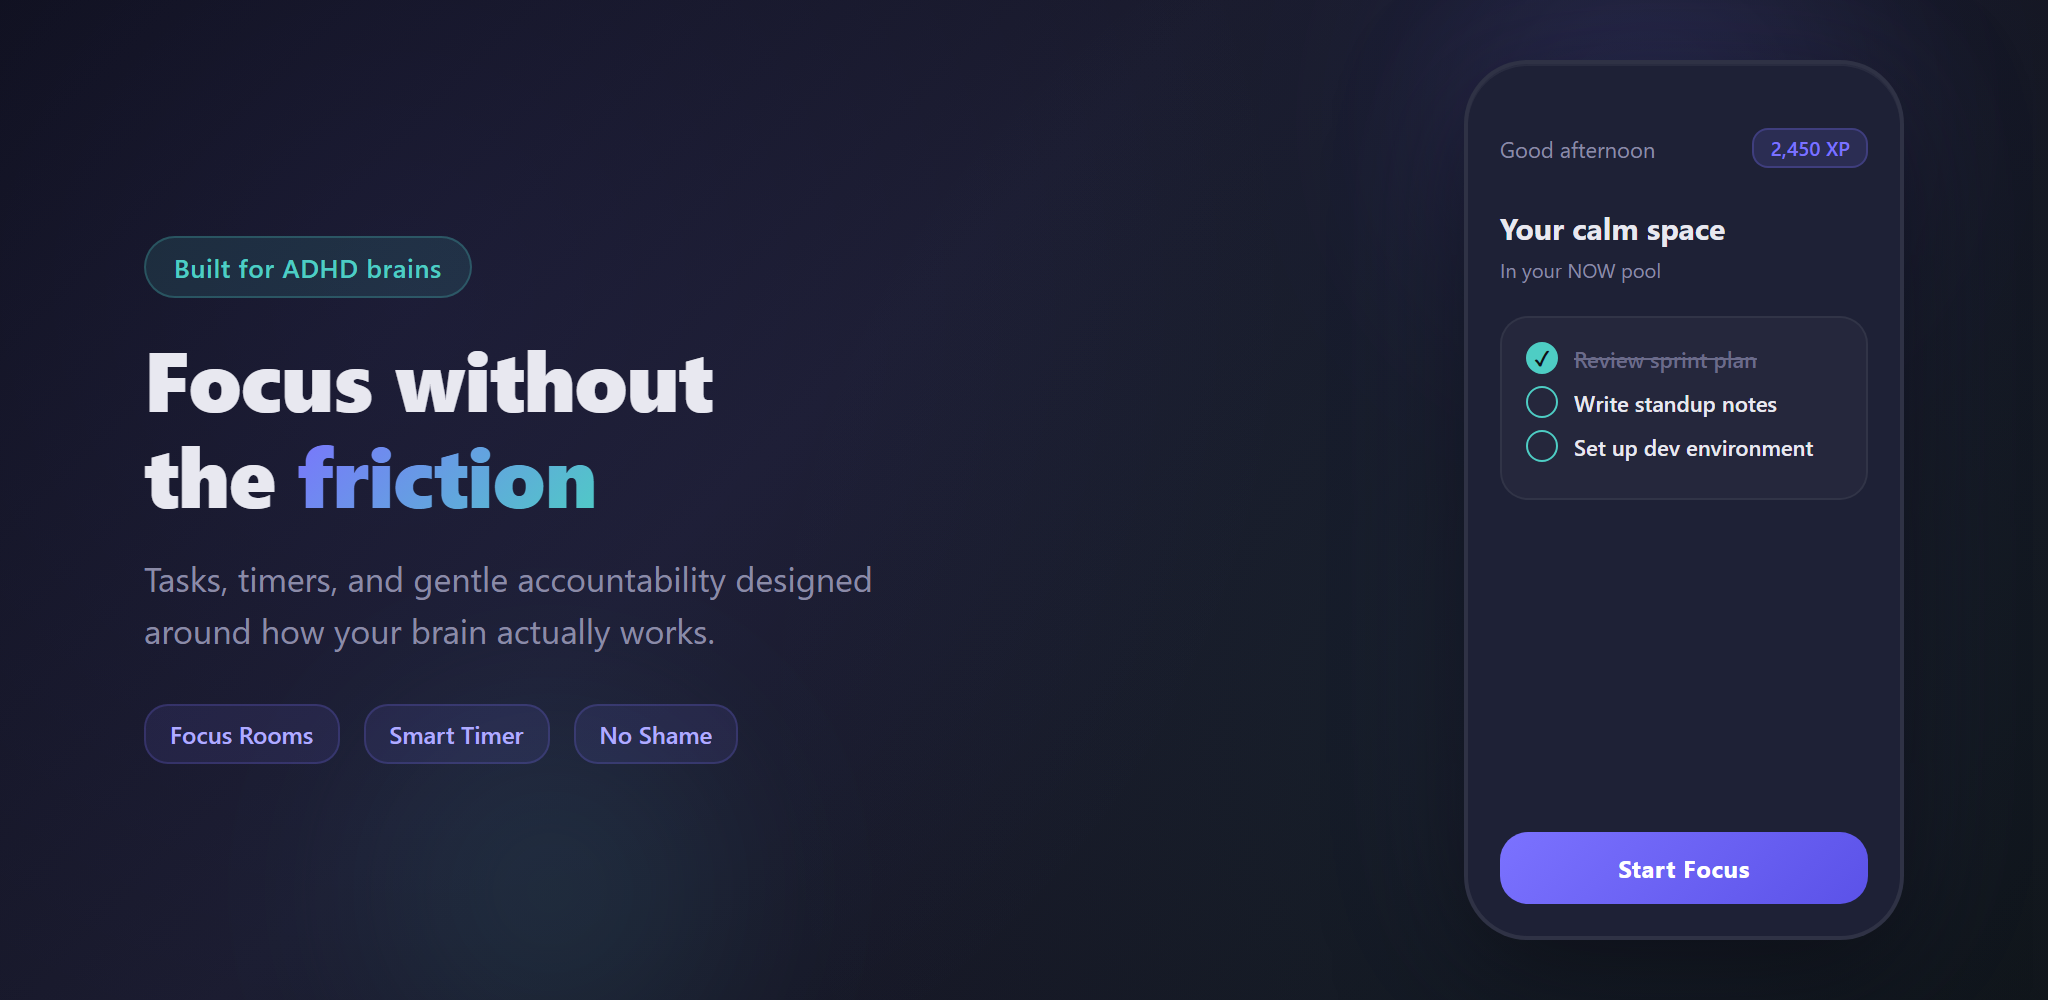
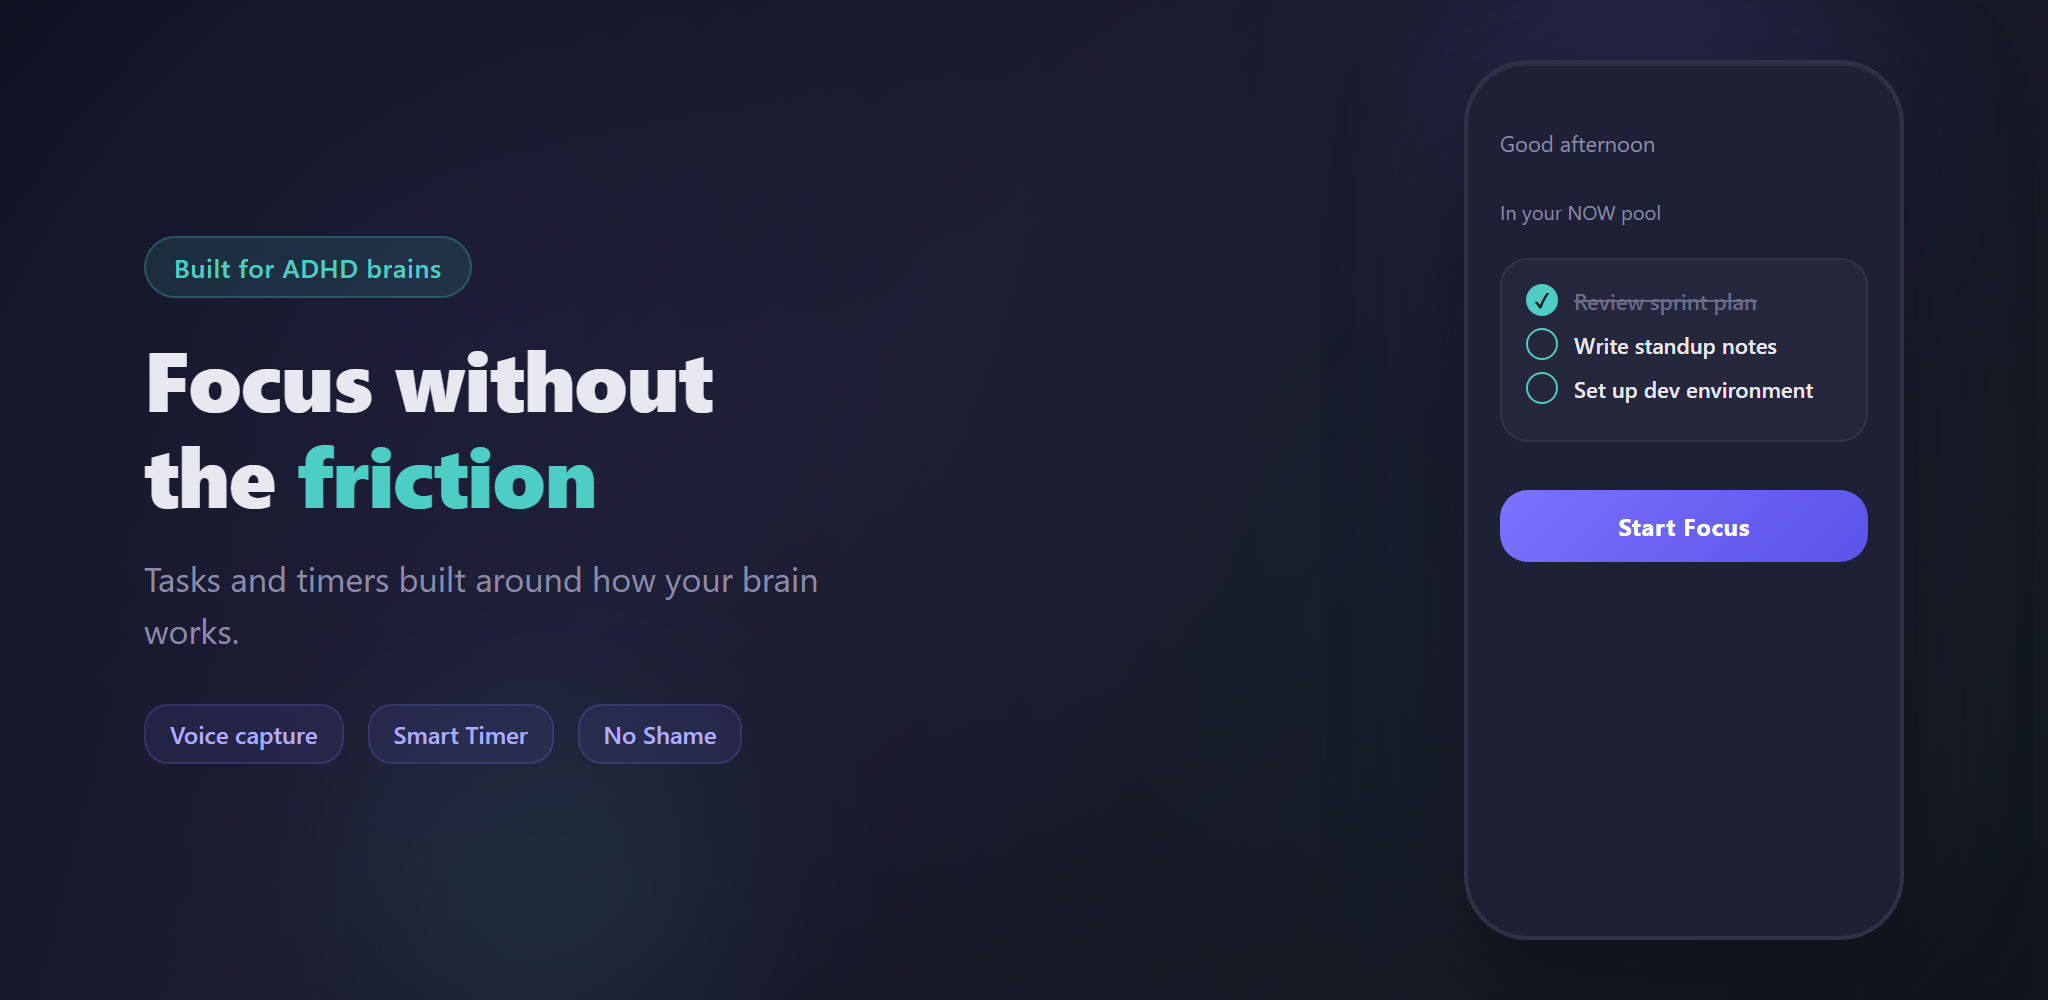
chore(launch): feature-graphic touch-up for Play Store
UI state: feature-graphic.png 2048x1000 re-rendered.
Changes:
  - "Focus Rooms" -> "Voice capture" (v1.0 feature accuracy)
  - Removed 2,450 XP chip from mock (shame-free rule)
  - Headline: "friction" gradient -> solid teal #4ECDC4
  - Sub-head trimmed 14 -> 9 words
  - Mock CTA raised to close vertical gap
  - Mock section header cleaned (removed "Your calm space")
No palette, no component, no layout changes.

diff --git a/public/feature-graphic.html b/public/feature-graphic.html
@@ -67,9 +67,7 @@ h1 {
 }
 
 h1 span {
-  background: linear-gradient(135deg, #7B72FF 0%, #4ECDC4 100%);
-  -webkit-background-clip: text;
-  -webkit-text-fill-color: transparent;
+  color: #4ECDC4;
 }
 
 .subtitle {
@@ -132,16 +130,6 @@ h1 span {
 .phone-greeting {
   font-size: 11px;
   color: #8B8BA7;
-}
-
-.phone-xp {
-  font-size: 10px;
-  background: rgba(123,114,255,0.15);
-  border: 1px solid rgba(123,114,255,0.25);
-  border-radius: 8px;
-  padding: 2px 8px;
-  color: #7B72FF;
-  font-weight: 600;
 }
 
 .phone-title {
@@ -213,7 +201,9 @@ h1 span {
   font-size: 12px;
   font-weight: 700;
   color: white;
-  margin-top: auto;
+  /* 2026-04-19: auto → 16px — close the empty gap between checklist and CTA
+     per Design-Atlas recapture packet edit #5 (Option A). */
+  margin-top: 16px;
   letter-spacing: 0.3px;
 }
 
@@ -235,9 +225,9 @@ h1 span {
     <div class="left">
       <div class="badge">Built for ADHD brains</div>
       <h1>Focus without<br>the <span>friction</span></h1>
-      <p class="subtitle">Tasks, timers, and gentle accountability designed around how your brain actually works.</p>
+      <p class="subtitle">Tasks and timers built around how your brain works.</p>
       <div class="features">
-        <div class="feature-chip">Focus Rooms</div>
+        <div class="feature-chip">Voice capture</div>
         <div class="feature-chip">Smart Timer</div>
         <div class="feature-chip">No Shame</div>
       </div>
@@ -246,9 +236,7 @@ h1 span {
       <div class="phone-screen">
         <div class="phone-status">
           <span class="phone-greeting">Good afternoon</span>
-          <span class="phone-xp">2,450 XP</span>
         </div>
-        <div class="phone-title">Your calm space</div>
         <div class="phone-sub">In your NOW pool</div>
         <div class="phone-card">
           <div class="task-row">